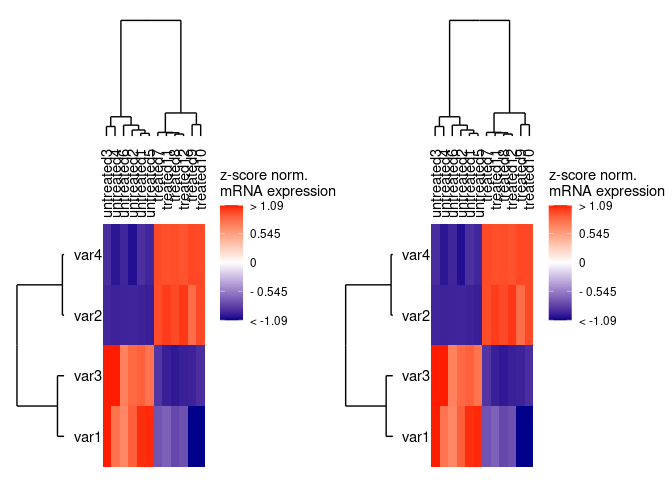
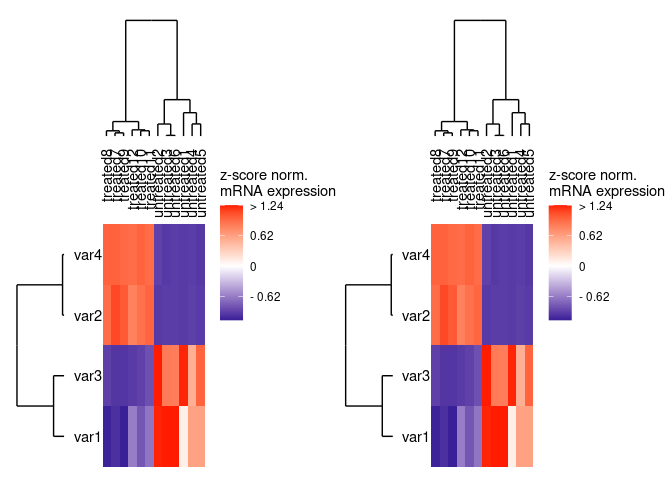
hopefully last update

diff --git a/README.md b/README.md
@@ -36,12 +36,12 @@ df <- data.frame(samples = c(paste0("untreated", 1:6), paste0("treated", 7:12)),
 
 head(df)
 #>      samples     group  patient batch      var1      var2     var3      var4
-#> 1 untreated1 Untreated Patient1     1 10.383453  9.287492 45.79169 11.583357
-#> 2 untreated2 Untreated Patient2     2 10.075931 10.270500 45.01411  7.953078
-#> 3 untreated3 Untreated Patient3     1 10.483314 10.710035 54.10228 11.249119
-#> 4 untreated4 Untreated Patient1     2  9.900946  8.954973 52.03374  8.690800
-#> 5 untreated5 Untreated Patient2     1 10.404475  7.736143 44.07323 10.329316
-#> 6 untreated6 Untreated Patient3     2  9.720149  9.675822 42.67871 10.274727
+#> 1 untreated1 Untreated Patient1     1  8.891739  9.220799 57.41239 10.088072
+#> 2 untreated2 Untreated Patient2     2 10.737352  8.458915 57.92662 10.885514
+#> 3 untreated3 Untreated Patient3     1 11.001549 10.176619 49.35026  9.854329
+#> 4 untreated4 Untreated Patient1     2  9.719786 11.301982 42.28681 10.444724
+#> 5 untreated5 Untreated Patient2     1  9.721286  9.080322 51.96233  9.700775
+#> 6 untreated6 Untreated Patient3     2 10.996322 10.454314 48.94407 10.340856
 
 heatmap_plot <- simpleHM(df, excluded_vars = "batch")    
 #> normalisation done
@@ -154,8 +154,8 @@ p4 <- simpleHM(df, excluded_vars = "batch", add_dendros = T, pull_side = c("var1
 #> Adding another scale for y, which will replace the existing scale.Scale for x is already present.
 #> Adding another scale for x, which will replace the existing scale.
 
-combined_plots1 <- wrap_plots(list(p1, p2), ncol = 2) & ggplot2::theme(legend.position = "none")
-combined_plots2 <- wrap_plots(list(p3, p4), ncol = 2, guides = "collect")
+combined_plots1 <- wrap_plots(list(p1, p2), ncol = 2)
+combined_plots2 <- wrap_plots(list(p3, p4), ncol = 2)
 
 combined_plots1
 ```
